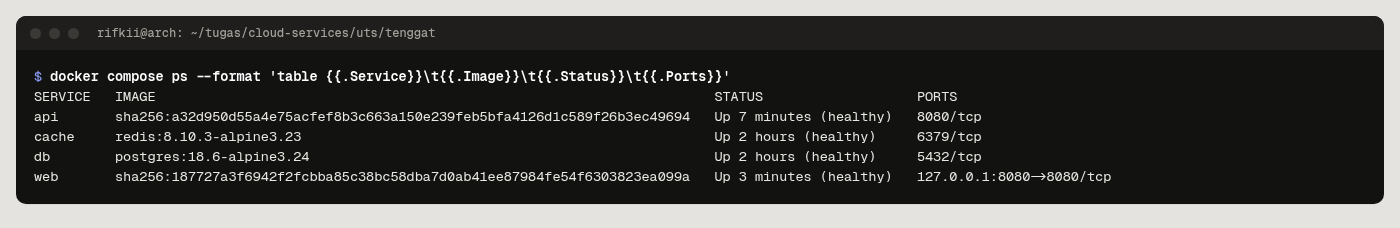
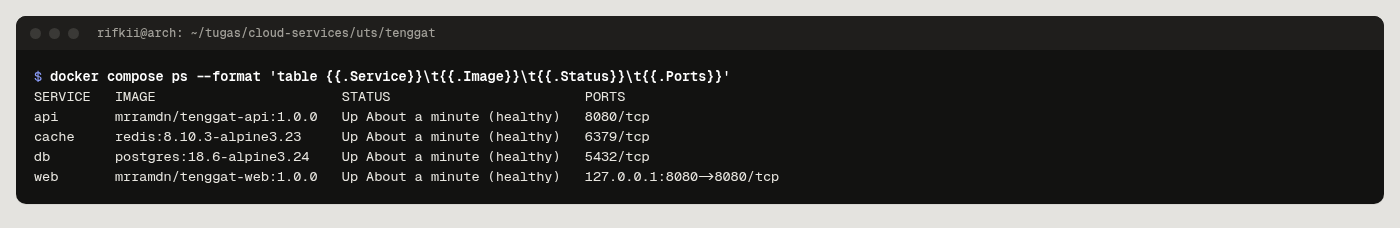
docs: README for client spaces, reports and notifications, with new screenshots

diff --git a/README.md b/README.md
@@ -1,36 +1,46 @@
 # Tenggat
 
-Masa berlaku domain, sertifikat TLS, token API, dan langganan dalam satu daftar. Untuk situs, Anda cukup mengisi nama
-host: Tenggat membaca tanggal berakhir sertifikat langsung dari server, mengeceknya ulang tiap 6 jam, dan mengingatkan
-sebelum ada yang kedaluwarsa.
+Tenggat untuk freelancer dan agensi kecil yang mengurus situs klien. Setiap klien punya halaman sendiri: aset
+(domain, sertifikat TLS, token API, langganan) beserta tanggal berakhirnya, tugas maintenance yang berulang, catatan
+pekerjaan, dan laporan bulanan yang bisa dikirim ke klien. Tanggal domain dibaca dari registri dan tanggal sertifikat
+dari server, lalu dicek ulang tiap 6 jam.
 
 Coba versi online di https://tenggat.mrramdn.com, atau jalankan di komputer Anda sendiri (lihat
 [Menjalankan](#menjalankan)).
 
-![Dasbor Tenggat: ringkasan status, linimasa 90 hari, dan daftar aset](docs/dasbor.png)
+![Ringkasan Tenggat: kalimat ringkasan, status, linimasa 90 hari, tugas yang perlu dikerjakan, dan semua aset](docs/dasbor.png)
 
 ## Latar belakang
 
-Tanggal kedaluwarsa aset digital biasanya tersebar di email registrar, dashboard penyedia cloud, dan catatan pribadi.
-Begitu satu tanggal terlewat, situs tidak bisa dibuka, browser menampilkan peringatan "Not secure", integrasi putus,
-atau layanan ditangguhkan. Tenggat dibuat untuk freelancer dan agensi kecil yang mengurus banyak situs klien, UMKM
-yang punya website atau toko online, dan tim IT kecil.
+Tanggal berakhir domain, sertifikat, dan token tersebar di email registrar, dashboard penyedia cloud, dan catatan
+pribadi. Satu tanggal yang terlewat berarti situs tidak bisa dibuka, browser menampilkan peringatan "Not secure", atau
+layanan ditangguhkan. Bagi yang menjual paket maintenance bulanan, ada pekerjaan rutin lain (backup, update plugin,
+cek keamanan) dan laporan yang dikirim ke klien tiap bulan, biasanya lewat WhatsApp atau PDF. Tenggat menyatukan
+keduanya per klien.
 
 ## Fitur
 
-- Akun: daftar, masuk, keluar, dan hapus akun. Setiap pengguna hanya melihat asetnya sendiri.
-- Satu daftar aset dengan status otomatis dari sisa hari: **Lewat**, **7 hari**, **30 hari**, **Aman**.
-- Sertifikat TLS dibaca langsung dari server (port 443) dan dicek ulang berkala; kegagalan cek ikut tercatat.
-- Tanggal berakhir domain dibaca dari registri lewat RDAP (`.com`, `.net`, `.org`, `.id` termasuk `.co.id`, dan TLD
-  lain yang punya RDAP), juga dicek ulang berkala. TLD tanpa RDAP, misalnya `.io`, diisi tanggalnya sendiri.
-- Kalender `.ics` dengan pengingat 30 dan 7 hari sebelumnya: unduh sekali, atau tautan langganan pribadi supaya
-  aplikasi kalender di ponsel ikut memperbarui sendiri.
-- Ekspor CSV seluruh aset.
-- Filter per status dan klien, ringkasan jumlah per status.
-- Daftar klien sendiri: tambah, ubah, dan hapus klien, lengkap dengan jumlah aset dan biaya perpanjangan 30 hari.
-- Hanya menyimpan nama dan tanggal aset; nilai token atau kata sandi layanan tidak pernah disimpan.
-- Host yang mengarah ke alamat lokal atau privat ditolak, sehingga fitur cek tidak bisa dipakai untuk mengintip
-  jaringan internal (SSRF).
+- **Halaman depan** dengan cek langsung: ketik alamat situs, lalu lihat tanggal berakhir domain (registri) dan
+  sertifikatnya (server) tanpa membuat akun.
+- **Halaman per klien** dengan tab Aset, Tugas, Aktivitas, dan Laporan. Ringkasan lintas klien tetap ada di `/app`.
+- **Aset** dengan status dari sisa hari: Lewat, 7 hari, 30 hari, Aman. Domain dibaca lewat RDAP (`.com`, `.net`,
+  `.org`, `.id` termasuk `.co.id`, dan TLD lain yang punya RDAP); TLD tanpa RDAP, misalnya `.io`, diisi tanggalnya
+  sendiri. Sertifikat dibaca dari port 443. Keduanya dicek ulang berkala, dan kegagalan cek ikut tercatat.
+- **Tugas maintenance berulang**, misalnya cek backup tiap bulan. Setelah ditandai selesai, jatuh temponya maju ke
+  periode berikutnya dan pekerjaannya masuk ke aktivitas klien.
+- **Aktivitas** per klien: catatan internal, catatan pekerjaan dengan durasi, dan kejadian yang dicatat otomatis (aset
+  ditambah atau diperpanjang, tanggal berubah saat cek ulang, tugas selesai).
+- **Laporan bulanan** per klien: pekerjaan dan waktu kerja bulan itu, perpanjangan, daftar aset, dan yang jatuh tempo
+  60 hari ke depan, plus ringkasan yang Anda tulis. Bisa dicetak atau disimpan sebagai PDF, dibagikan lewat tautan baca-saja yang bisa
+  dicabut, atau dikirim lewat WhatsApp. Catatan internal tidak pernah ikut.
+- **Pengingat ke klien** lewat WhatsApp untuk aset yang mendekati tanggalnya (tautan `wa.me` berisi teks; nomor telepon
+  tidak disimpan).
+- **Kalender** `.ics` dengan pengingat 30 dan 7 hari sebelumnya: unduh sekali, atau tautan langganan pribadi supaya
+  aplikasi kalender ikut memperbarui sendiri.
+- **Notifikasi harian** pukul 08.00 WIB ke Slack, Discord, atau Telegram lewat webhook milik Anda, bila ada yang lewat
+  atau jatuh tempo dalam 7 hari.
+- Ekspor CSV, akun dengan data terpisah per pengguna, dan penolakan host yang mengarah ke alamat lokal atau privat
+  (SSRF).
 
 ## Arsitektur
 
@@ -38,14 +48,15 @@ yang punya website atau toko online, dan tim IT kecil.
 
 | Service | Image | Port di host | Network | Volume |
 |---|---|---|---|---|
-| web | build `web/` (nginx 1.30.6 unprivileged) | 127.0.0.1:8080 | edge | - |
-| api | build `api/` (distroless static) | - | edge, data | - |
+| web | `mrramdn/tenggat-web:1.0.0`, build dari `web/` (nginx 1.30.6 unprivileged) | 127.0.0.1:8080 | edge | - |
+| api | `mrramdn/tenggat-api:1.0.0`, build dari `api/` (distroless static) | - | edge, data | - |
 | db | postgres:18.6-alpine3.24 | - | data | db_data |
 | cache | redis:8.10.3-alpine3.23 | - | data | - (tmpfs) |
 | adminer (profile `tools`) | adminer:6.3.0 | 127.0.0.1:8081 | edge, data | - |
 
 Hanya `web` yang dibuka ke host. Network `data` bertanda `internal`, jadi database dan Redis tidak punya jalan ke
-internet. `api` ada di kedua network: menerima permintaan dari nginx dan keluar ke port 443 untuk membaca sertifikat.
+internet. `api` ada di kedua network: menerima permintaan dari nginx, dan keluar ke port 443 untuk membaca sertifikat,
+menanyai registri domain, dan mengirim notifikasi webhook.
 
 ## Menjalankan
 
@@ -58,9 +69,9 @@ cp .env.example .env
 docker compose up -d --build
 ```
 
-Buka http://localhost:8080, lalu buat akun di halaman Daftar. Untuk mengisi data contoh:
-`./scripts/isi-data-contoh.sh` membuat akun `contoh@tenggat.id` dengan kata sandi `contoh-tenggat` (hanya untuk
-mencoba di komputer Anda) dan menambahkan delapan aset.
+Buka http://localhost:8080, lalu pilih Buat akun. Untuk mengisi data contoh, `./scripts/isi-data-contoh.sh` membuat
+akun `contoh@tenggat.id` dengan kata sandi `contoh-tenggat` (hanya untuk mencoba di komputer Anda) beserta delapan aset,
+empat tugas, catatan pekerjaan, dan ringkasan laporan bulan ini.
 
 Image `web` dan `api` juga ada di Docker Hub dengan tag `1.0.0` dan `latest`:
 [mrramdn/tenggat-web](https://hub.docker.com/r/mrramdn/tenggat-web) dan
@@ -75,17 +86,17 @@ menghapusnya.
 
 ## Tampilan
 
-| Tambah aset: tanggal domain dibaca dari registri | Ponsel |
+| Halaman klien: tugas maintenance | Laporan bulanan |
 |---|---|
-| ![Panel tambah aset dengan tanggal domain dari registri](docs/tambah-aset.png) | ![Tampilan ponsel](docs/ponsel.png) |
+| ![Halaman klien dengan tab Tugas](docs/klien.png) | ![Laporan bulanan untuk klien](docs/laporan.png) |
 
-Halaman masuk:
+| Halaman depan dengan cek langsung | Ponsel |
+|---|---|
+| ![Halaman depan: cek tanggal domain dan sertifikat](docs/beranda.png) | ![Tampilan ponsel](docs/ponsel.png) |
 
-![Halaman masuk](docs/masuk.png)
+Menambah aset: tanggal domain dibaca dari registri.
 
-Saat belum ada aset, halaman awal langsung meminta domain pertama:
-
-![Keadaan kosong](docs/kosong.png)
+![Panel tambah aset dengan tanggal domain dari registri](docs/tambah-aset.png)
 
 ## Konfigurasi (`.env`)
 
@@ -93,47 +104,41 @@ Saat belum ada aset, halaman awal langsung meminta domain pertama:
 |---|---|---|
 | `WEB_PORT` | 8080 | Port di komputer Anda untuk membuka Tenggat |
 | `POSTGRES_DB`, `POSTGRES_USER`, `POSTGRES_PASSWORD` | tenggat, tenggat, - | Database; wajib diisi (compose berhenti dengan pesan bila kosong) |
-| `CEK_INTERVAL` | 6h | Seberapa sering sertifikat dicek ulang |
-| `BATAS_PER_MENIT` | 30 | Batas permintaan tulis dan cek sertifikat per klien per menit |
+| `CEK_INTERVAL` | 6h | Seberapa sering sertifikat dan domain dicek ulang |
+| `BATAS_PER_MENIT` | 30 | Batas permintaan tulis dan cek per pengunjung per menit |
 | `ADMINER_PORT` | 8081 | Port Adminer (profile `tools`) |
 
 ## API
 
-Semua lewat http://localhost:8080 (nginx meneruskan ke `api`). Selain `/health`, `POST /api/akun`, dan
-`POST /api/sesi`, setiap endpoint butuh sesi (cookie `tenggat_sesi`) dan menjawab `401` tanpanya.
+Semua lewat http://localhost:8080 (nginx meneruskan ke `api`). Kecuali yang ditandai *publik*, setiap endpoint butuh
+sesi (cookie `tenggat_sesi`) dan menjawab `401` tanpanya. Kesalahan isian dijawab `422` dengan pesan per kolom.
 
 | Method dan path | Fungsi | Status |
 |---|---|---|
-| `GET /health` | Kesehatan api, database, dan cache | 200, 503 |
-| `POST /api/akun` | Daftar akun baru dan langsung masuk | 201, 400, 409, 422, 429 |
-| `POST /api/sesi` | Masuk | 200, 401, 422, 429 |
-| `DELETE /api/sesi` | Keluar | 204 |
-| `GET /api/saya` | Akun yang sedang masuk | 200, 401 |
-| `DELETE /api/saya` | Hapus akun beserta semua asetnya | 204, 401 |
-| `GET /api/item?status=&klien=&klien_id=` | Daftar aset, urut tenggat terdekat | 200, 422 |
-| `POST /api/item` | Tambah aset; sertifikat dibaca dari server | 201 + `Location`, 400, 422, 429 |
-| `GET /api/item/{id}` | Satu aset | 200, 404 |
-| `PUT /api/item/{id}` | Ubah aset, misalnya setelah diperpanjang | 200, 404, 422 |
-| `DELETE /api/item/{id}` | Hapus aset | 204, 404 |
-| `POST /api/item/{id}/cek` | Cek ulang sertifikat atau domain dari registri sekarang | 200, 404, 422, 429 |
-| `GET /api/sertifikat?host=` | Pratinjau sertifikat sebelum disimpan | 200, 422, 429 |
-| `GET /api/domain?host=` | Pratinjau tanggal domain dari registri (RDAP) | 200, 422, 429 |
-| `GET /api/item.csv` | Semua aset sebagai CSV | 200 |
-| `GET /api/ringkasan` | Jumlah aset per status dan daftar klien | 200 |
-| `GET /api/kalender.ics` | File kalender untuk semua aset | 200 |
-| `POST /api/kalender/tautan` | Buat atau ganti tautan langganan kalender | 201 |
-| `DELETE /api/kalender/tautan` | Cabut tautan langganan | 204 |
-| `GET /api/kalender/{token}.ics` | Kalender lewat tautan langganan, tanpa sesi | 200, 404, 429 |
-| `GET /api/klien` | Daftar klien dengan jumlah aset, tenggat terdekat, dan biaya 30 hari | 200 |
-| `POST /api/klien` | Tambah klien (`nama`, `catatan`) | 201 + `Location`, 409, 422, 429 |
-| `PUT /api/klien/{id}` | Ubah nama atau catatan klien | 200, 404, 409, 422 |
-| `DELETE /api/klien/{id}` | Hapus klien; asetnya tetap ada, tanpa klien | 204, 404 |
+| `GET /health` (publik) | Kesehatan api, database, dan cache | 200, 503 |
+| `GET /api/publik/cek?host=` (publik) | Cek tanggal domain dan sertifikat untuk halaman depan | 200, 422, 429 |
+| `POST /api/akun` (publik) | Daftar akun baru dan langsung masuk | 201, 409, 422, 429 |
+| `POST /api/sesi` (publik), `DELETE /api/sesi` | Masuk, keluar | 200, 401, 422, 429 / 204 |
+| `GET /api/saya`, `DELETE /api/saya` | Akun yang sedang masuk; hapus akun beserta semua datanya | 200 / 204 |
+| `GET /api/item?status=&klien_id=`, `POST /api/item` | Daftar aset; tambah aset (domain dan sertifikat dibaca otomatis bila tanggal kosong) | 200 / 201 + `Location`, 422, 429 |
+| `GET`, `PUT`, `DELETE /api/item/{id}` | Satu aset: lihat, ubah (misalnya setelah diperpanjang), hapus | 200, 404, 422 / 204 |
+| `POST /api/item/{id}/cek` | Cek ulang sertifikat atau domain sekarang | 200, 404, 422, 429 |
+| `GET /api/sertifikat?host=`, `GET /api/domain?host=` | Pratinjau tanggal sebelum disimpan | 200, 422, 429 |
+| `GET /api/item.csv`, `GET /api/ringkasan` | Semua aset sebagai CSV; jumlah per status | 200 |
+| `GET /api/klien`, `POST /api/klien` | Daftar klien dengan jumlah aset, jatuh tempo terdekat, biaya 30 hari; tambah klien | 200 / 201, 409, 422 |
+| `PUT`, `DELETE /api/klien/{id}` | Ubah nama, catatan, atau status klien; hapus klien (asetnya tetap ada) | 200, 404, 409, 422 / 204 |
+| `GET /api/tugas?klien_id=&dalam_hari=`, `POST /api/tugas` | Tugas maintenance berulang | 200 / 201 + `Location`, 422 |
+| `PUT`, `DELETE /api/tugas/{id}`, `POST /api/tugas/{id}/selesai` | Ubah, hapus, tandai selesai (jatuh tempo maju satu periode) | 200, 404, 409, 422 / 204 |
+| `GET /api/aktivitas?klien_id=&sebelum=`, `POST /api/aktivitas`, `DELETE /api/aktivitas/{id}` | Aktivitas klien; tulis catatan atau pekerjaan; hapus catatan atau pekerjaan | 200 / 201 / 204, 422 |
+| `GET /api/klien/{id}/laporan?bulan=`, `PUT /api/klien/{id}/laporan/catatan` | Laporan bulanan; ringkasan Anda untuk bulan itu | 200, 404, 422 |
+| `POST`, `DELETE /api/klien/{id}/laporan/tautan` | Buat atau ganti, dan cabut tautan laporan | 201 / 204 |
+| `GET /api/laporan/{token}?bulan=` (publik) | Laporan lewat tautan baca-saja | 200, 404, 422, 429 |
+| `GET /api/kalender.ics?klien_id=`, `POST`, `DELETE /api/kalender/tautan` | File kalender; buat atau cabut tautan langganan | 200 / 201 / 204 |
+| `GET /api/kalender/{token}.ics` (publik) | Kalender lewat tautan langganan | 200, 404, 429 |
+| `GET`, `PUT`, `DELETE /api/notifikasi`, `POST /api/notifikasi/uji` | Webhook Slack, Discord, atau Telegram; kirim pesan uji | 200, 422, 502 / 204 |
 
-Domain yang dikirim dengan `host` tanpa `kedaluwarsa` dibaca dari registri (`sumber: "registri"`); kalau tanggalnya
-diisi, aset itu manual. Token tautan kalender hanya tampil sekali dan disimpan sebagai hash SHA-256, seperti token sesi.
-
-Aset menerima `klien_id` atau `klien` (nama). Nama yang belum ada menjadi klien baru, `""` berarti tanpa klien. Nama
-klien unik per akun tanpa membedakan huruf besar dan kecil.
+Domain yang dikirim dengan `host` tanpa `kedaluwarsa` dibaca dari registri (`sumber: "registri"`); bila tanggalnya
+diisi, aset itu manual. Aset dan tugas menerima `klien_id` atau `klien` (nama); nama yang belum ada menjadi klien baru.
 
 Contoh dengan curl (cookie sesi disimpan di `sesi.txt`):
 
@@ -144,27 +149,32 @@ curl -i -c sesi.txt -X POST http://localhost:8080/api/akun \
 
 curl -i -b sesi.txt -X POST http://localhost:8080/api/item \
   -H 'Content-Type: application/json' \
-  -d '{"jenis":"sertifikat","klien":"Pribadi","host":"example.com"}'
+  -d '{"jenis":"domain","klien":"Toko Kue Mawar","host":"pandi.id"}'
+
+curl -i -b sesi.txt -X POST http://localhost:8080/api/tugas \
+  -H 'Content-Type: application/json' \
+  -d '{"klien":"Toko Kue Mawar","judul":"Cek backup situs","ulang_jumlah":1,"ulang_satuan":"bulan","jatuh_tempo":"2026-12-01"}'
 ```
 
 `GET /api/item`, `GET /api/ringkasan`, dan `GET /api/klien` membawa header `X-Cache: HIT` atau `MISS` dari Redis.
 
 ## Data dan privasi
 
-- Yang disimpan: nama dan email akun, hash kata sandi, sesi, dan metadata aset (nama layanan, jenis, klien, host,
-  tanggal, biaya, catatan). Nilai token API atau kata sandi layanan tidak pernah diminta maupun disimpan.
-- Kata sandi disimpan sebagai hash Argon2id (19 MiB, 2 putaran). Token sesi acak 256 bit; database hanya menyimpan
-  SHA-256-nya, cookie-nya `HttpOnly` dan `SameSite=Lax` (dan `Secure` di HTTPS), berlaku 30 hari, dan dicabut saat
-  keluar.
-- Permintaan yang mengubah data dari situs lain ditolak (`403`), dan percobaan masuk serta pendaftaran dibatasi per
-  pengunjung.
-- Klien disimpan dengan nama dan catatan. Bila catatan berisi nama kontak, isi seperlunya; klien bisa dihapus kapan
-  saja dan asetnya tetap ada tanpa klien.
-- Untuk membaca tanggal, api menghubungi server situs (port 443) dan registri domain (RDAP lewat HTTPS). Yang dikirim
-  hanya nama host atau domain.
-- Tautan langganan kalender berisi token acak; database hanya menyimpan SHA-256-nya, dan tautan bisa diganti atau
-  dicabut kapan saja.
-- Hapus akun menghapus akun, sesi, klien, dan semua aset pengguna itu sekaligus.
+- Yang disimpan: nama dan email akun, hash kata sandi, sesi, klien (nama, catatan, status), aset (nama, jenis, host,
+  tanggal, biaya, catatan), tugas, dan aktivitas. Tenggat tidak pernah meminta atau menyimpan token dan kata sandi dari
+  aset yang dilacak.
+- Satu-satunya rahasia yang disimpan adalah URL webhook notifikasi yang Anda isi sendiri. URL itu hanya dipakai untuk
+  mengirim pengingat, tidak pernah ditampilkan utuh atau ditulis ke log, dan terhapus saat notifikasi dimatikan atau
+  akun dihapus.
+- Catatan klien dan aktivitas bisa memuat nama kontak; isi seperlunya. Catatan internal tidak pernah masuk laporan.
+- Tautan laporan dan tautan kalender berisi token acak. Database hanya menyimpan SHA-256-nya, tautannya bisa diganti atau
+  dicabut kapan saja, dan halaman laporan meminta mesin pencari tidak mengindeksnya.
+- Kata sandi disimpan sebagai hash Argon2id. Token sesi acak 256 bit, database hanya menyimpan SHA-256-nya, cookie-nya
+  `HttpOnly` dan `SameSite=Lax` (dan `Secure` di HTTPS), berlaku 30 hari, dan dicabut saat keluar.
+- Untuk membaca tanggal, api menghubungi server situs dan registri domain; yang dikirim hanya nama host atau domain.
+  Cek di halaman depan tidak menyimpan apa pun.
+- Permintaan yang mengubah data dari situs lain ditolak (`403`). Masuk, daftar, tulis, dan cek dibatasi per pengunjung.
+- Hapus akun menghapus akun, sesi, klien, aset, tugas, aktivitas, dan pengaturan notifikasi sekaligus.
 
 ## Pengembangan
 
@@ -176,10 +186,10 @@ cd web && pnpm install && pnpm dev # Vite meneruskan /api ke http://localhost:80
 ## Struktur folder
 
 ```
-api/        layanan Go: cmd/server, internal/{expiry,tlscheck,store,cache,httpapi}, Dockerfile
+api/        layanan Go: cmd/server, internal/{expiry,tlscheck,rdap,store,cache,auth,httpapi}, Dockerfile
 web/        React + Vite + TypeScript, nginx.conf, Dockerfile
 scripts/    isi-data-contoh.sh untuk data contoh
-docs/       diagram dan screenshot README
+docs/       diagram, screenshot README, dan salinan artikel (GitHub Pages)
 docker-compose.yml, .env.example
 ```
 
@@ -189,6 +199,7 @@ docker-compose.yml, .env.example
 - Data bootstrap RDAP dari [IANA](https://data.iana.org/rdap/dns.json), disalin ke `api/internal/rdap/dns.json`
 - [React](https://react.dev), [Vite](https://vite.dev), [TanStack Query](https://tanstack.com/query)
 - Huruf [Geist dan Geist Mono](https://vercel.com/font) (SIL Open Font License 1.1, `web/src/assets/fonts/OFL.txt`)
+- Ikon dari [Lucide](https://lucide.dev) (ISC)
 - Image dasar resmi: golang, node, nginxinc/nginx-unprivileged, gcr.io/distroless/static, postgres, redis, adminer
 
 ## Tautan
